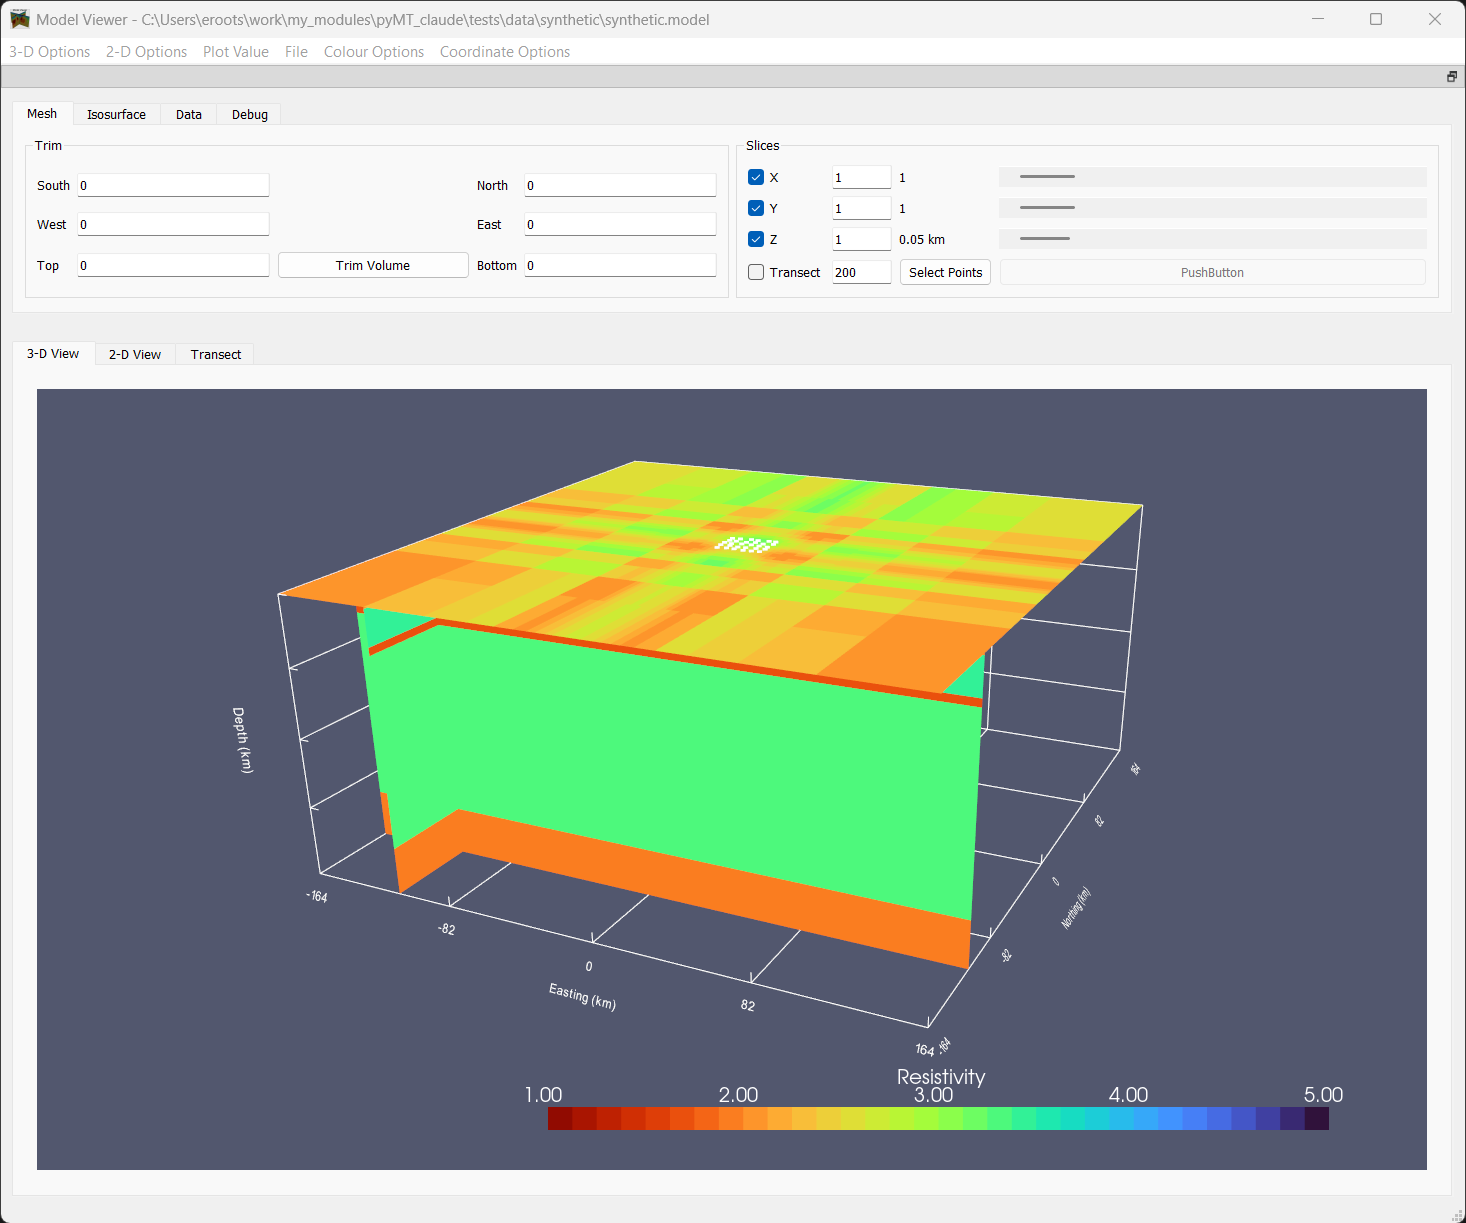
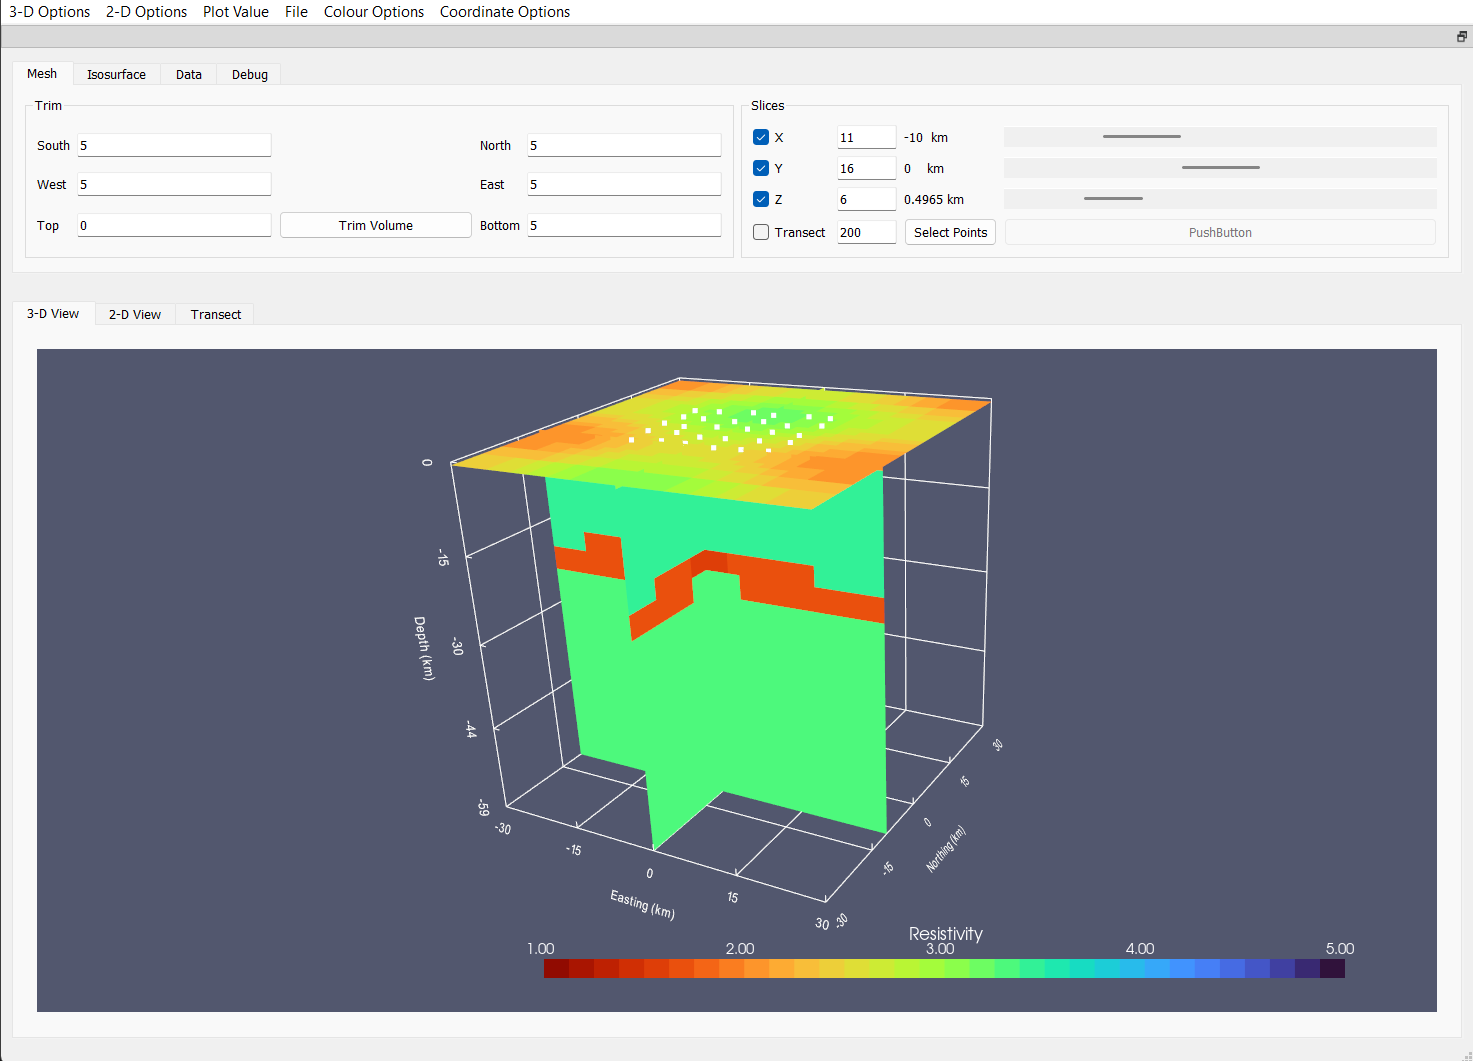
Model Viewer: hide the unfinished Clear Transect button; new screenshot
- The `clearTransect` button in model_viewer.ui was a disabled
  placeholder labelled "PushButton" and is not connected to anything;
  it is now hidden until a clear-transect action is implemented.
- docs/images/model_viewer_3d.png: retaken with the padding trimmed and
  the slices through the conductor.

diff --git a/gateway_mt/ModelGUI/model_viewer.py b/gateway_mt/ModelGUI/model_viewer.py
@@ -602,6 +602,8 @@ class ModelWindow(QModelWindow, UI_ModelWindow):
         self.viewYZ.triggered.connect(self.view_yz)
         # Interpolation widgets
         self.selectPoints.clicked.connect(self.transect_pick)
+        # Placeholder for a "Clear Transect" button that isn't implemented yet
+        self.clearTransect.hide()
         self.nInterp.editingFinished.connect(self.set_nInterp)
         self.interpCheckbox.clicked.connect(self.toggle_transect3D)
         # Isosurface widgets
